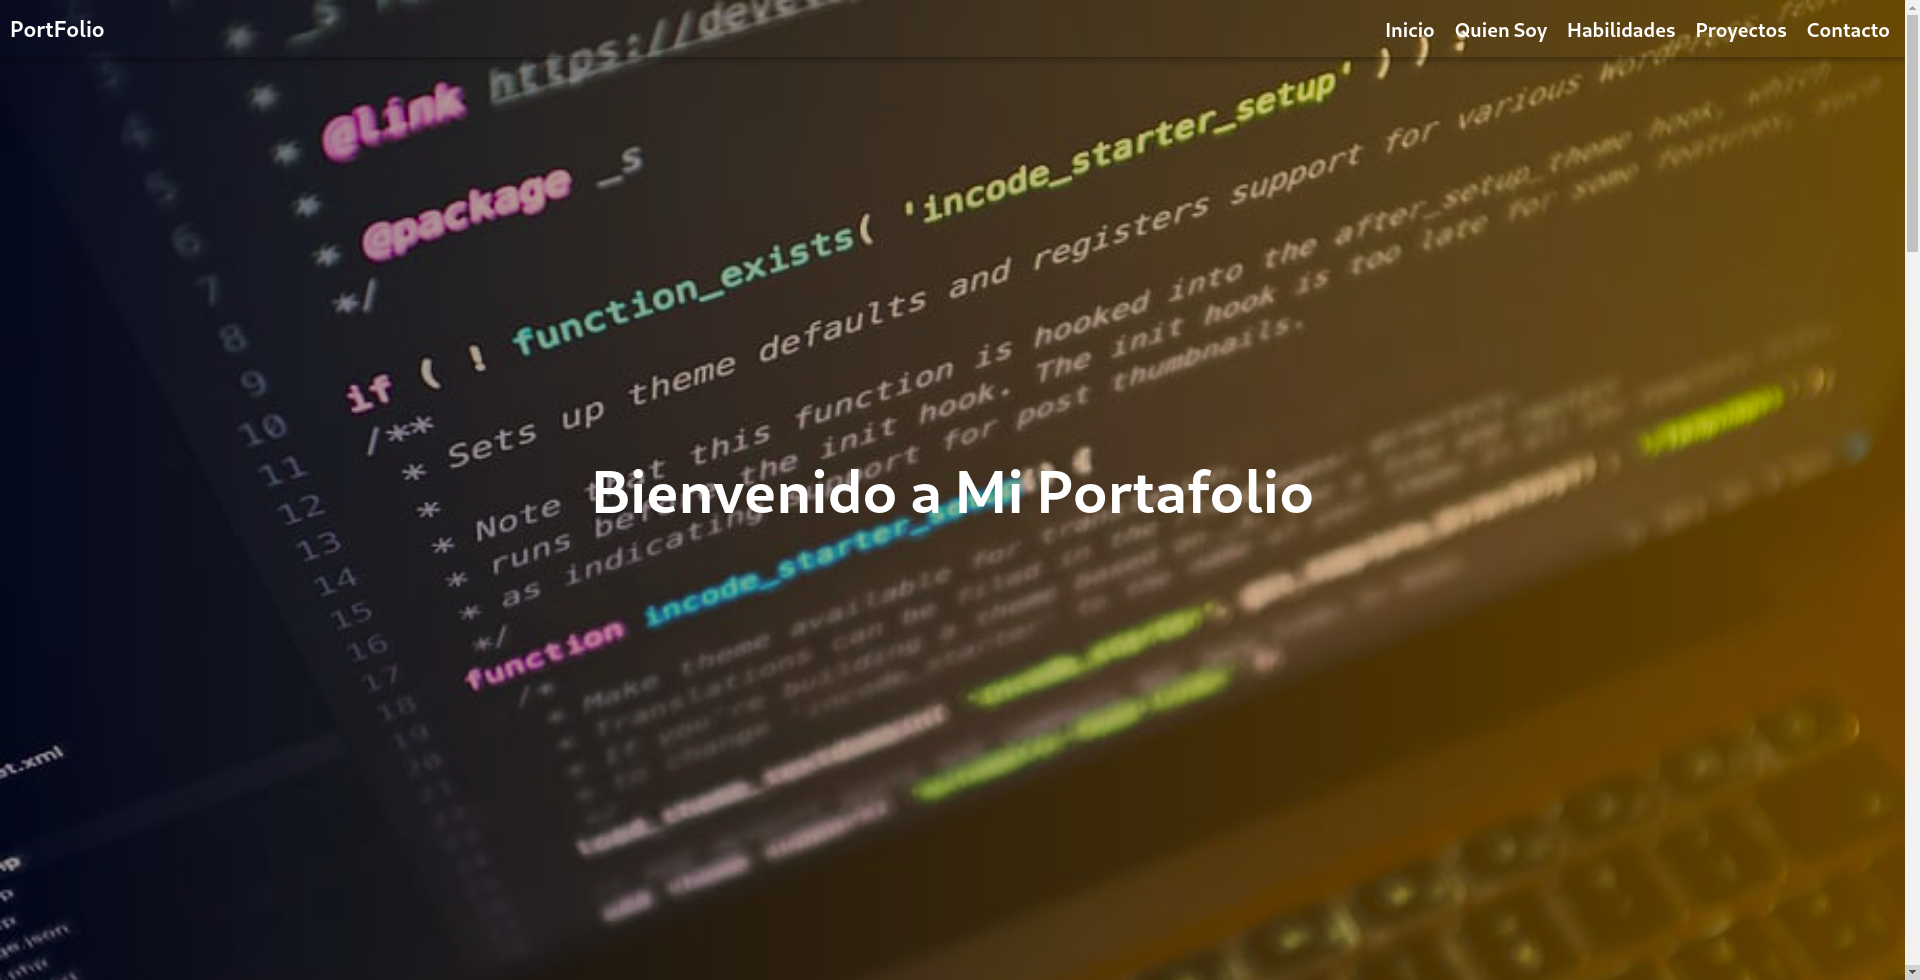
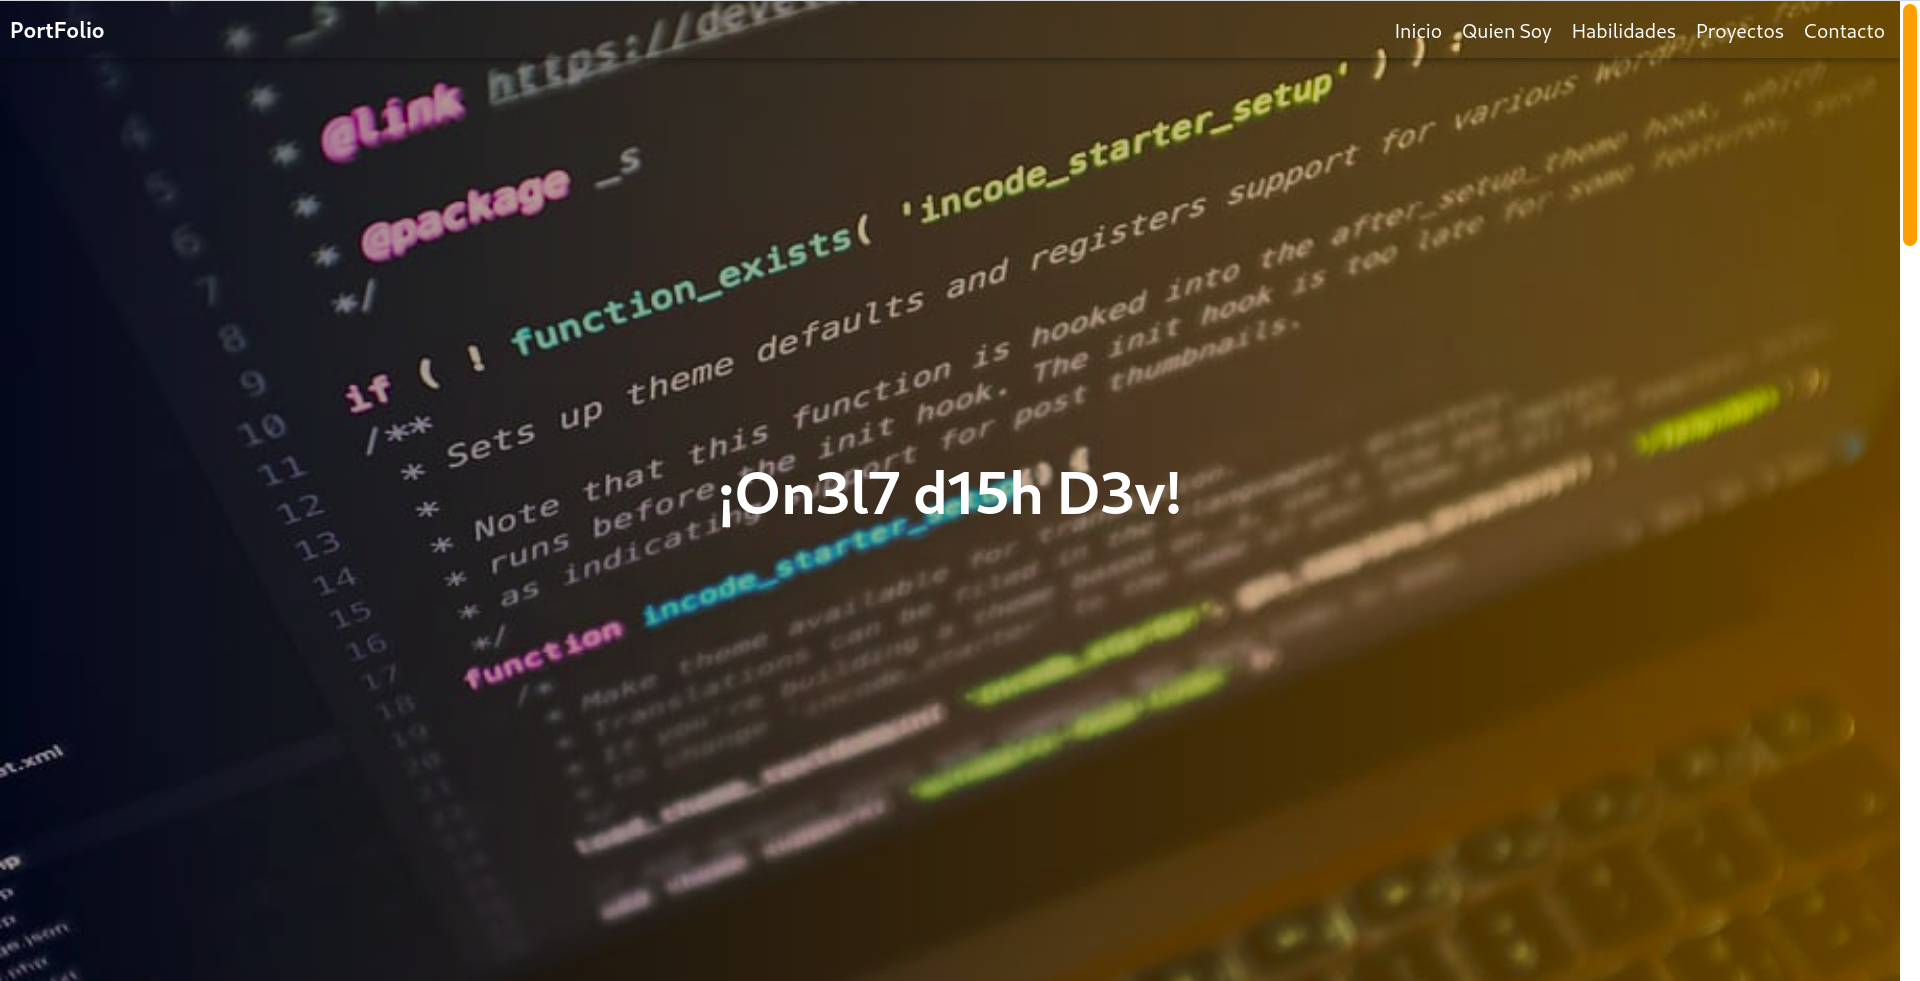
Second Commit Fix

diff --git a/src/components/styles/projects.css b/src/components/styles/projects.css
@@ -23,7 +23,7 @@
         width: 100%;
         display: flex;
         flex-direction: row-reverse;
-        flex-wrap: nowrap;
+        flex-wrap: wrap;
         justify-content: space-evenly;
         align-items: center;
     }
@@ -32,7 +32,7 @@
         {
             opacity: 0;
             transform: translateX(50px);
-            width: 40%;
+            width: 600px;
             font-size: 20px;
             margin: 0 0 0 20px;
             transition: all .5s ease;
@@ -56,11 +56,6 @@
                 width: 600px;
                 font-size: 20px;
             }
-
-                .projects section p a:hover
-                {
-                    background: var(--c-white-orange);
-                }
 
         .projects section .carousel-disappears
         {
@@ -89,6 +84,7 @@
             transform: translateX(0px);
             border-radius: 5px;
             transition: all .9s ease;
+            margin: 24px 0 0 0;
         }
 
             .projects section .carousel-appears:hover
@@ -167,7 +163,7 @@
 
 /* media queries */
 
-@media(max-width: 1600px)
+@media(max-width: 414px)
 {
     .projects section
     {
@@ -175,8 +171,60 @@
         flex-wrap: wrap;
     }
 
-    .projects section p
+        .projects section p
+        {
+            width: 30%;
+        }
+
+        .projects section .carousel-appears
+        {
+            width: 100%;
+            height: 175px;
+        }
+    
+                .projects section .carousel-appears .projectCard section
+                {
+                    width: 100%;
+                    height: 100%;
+                }
+    
+    /* animación del carusel en celulares */
+    @keyframes carousel
     {
-        width: 30%;
+        0%
+        {
+            transform: translateY(0px);
+        }
+
+        15%
+        {
+            transform: translateY(-175px);
+        }
+
+        30%
+        {
+            transform: translateY(-350px);
+        }
+
+        45%
+        {
+            transform: translateY(-525px);
+        }
+
+        60%
+        {
+            transform: translateY(-350px);
+        }
+
+        75%
+        {
+            transform: translateY(-175px);
+        }
+
+        100%
+        {
+            transform: translateY(0px);
+        }
     }
+
 }

diff --git a/src/components/WhoIAm.jsx b/src/components/WhoIAm.jsx
@@ -10,7 +10,7 @@ const WhoIAm = () => {
         window.addEventListener("scroll", () => {
             setobjectTop(document.documentElement.scrollTop);
 
-            if(objectTop >= 930){
+            if(objectTop >= 830){
                 setAnimation((t) => true);
             }
 
@@ -29,11 +29,7 @@ const WhoIAm = () => {
                         <h2>¡Hola!</h2>
                         <p>
                             Mi nombre es Onell Dishmey,
-                            programador web, que trabaja del lado
-                            del cliente, ¡Gusto en Conocerte!
-                        </p>
-                        <p>
-                            Nueva vez, te invito a mi sitio web, por aquí, encontraras, mis habilidades, algunos de mis projectos, y me podras contactar para hacer tu proyecto
+                            un programador web que le gusta desarrollar páginas webs dinámicas, Actualmente estoy estudiando en el ITLA, cursando el tecnólogo en Desarrollo de Software y mi hobbie es... ¡aprender cosas nuevas! 
                         </p>
                     </section>
             </div>

diff --git a/src/components/styles/contact.css b/src/components/styles/contact.css
@@ -31,12 +31,13 @@
             align-items: center;
             width: 70%;
             height: 550px;
+            margin: 0 0 30px;
         }
 
             .contact section .text-img
             {
                 background: url("/public/images/contact.jpg");
-                width: 35%;
+                width: 40%;
                 height: 100%;
                 position: relative;
                 display: flex;
@@ -69,6 +70,7 @@
                 padding: 10px;
                 border-radius: 5px;
                 position: relative;
+                width: 90%;
                 top: 40px;
                 opacity: 0;
                 z-index: 2;
@@ -89,7 +91,7 @@
 
             .contact section .form
             {
-                width: 35%;
+                width: 40%;
                 background: var(--c-white);
                 height: 100%;
                 display: flex;
@@ -190,7 +192,8 @@
     
     .contact
     {
-        height: 130vh;
+        width: 100%;
+        height: 100%;
         display: flex;
         flex-direction: column;
         flex-wrap: wrap;

diff --git a/src/components/styles/navbar.css b/src/components/styles/navbar.css
@@ -68,7 +68,7 @@
         {
             text-decoration: none;
             margin: 0 5px;
-            font-weight: bold;
+            font-weight: 500;
             font-size: 20px;
             border-radius: 5px;
             padding: 5px;
@@ -115,13 +115,13 @@
 
         .navbar .hamburger .inactive
         {
-            width: 100%;
+            width: 101%;
             height: 100vh;
             background: var(--c-orange);
             position: fixed;
             display: flex;
             top: 0;
-            left: -101%;
+            left: -103%;
             flex-direction: column;
             flex-wrap: wrap;
             align-items: center;
@@ -137,7 +137,7 @@
             position: fixed;
             display: flex;
             top: 0;
-            left: -1%;
+            left: -1.2%;
             flex-direction: column;
             flex-wrap: wrap;
             align-items: center;
@@ -148,6 +148,7 @@
             .navbar section a
             {
                 font-size: 30px;
+                margin: 20px 0;
             }
 
 }

diff --git a/src/components/Skills.jsx b/src/components/Skills.jsx
@@ -12,16 +12,13 @@ const Skill = () => {
         {name: "SvelteJS", image: "./images/skills/sveltejs.png"},
         {name: "NodeJS", image: "./images/skills/nodejs.png"},
         {name: "Bootstrap", image: "./images/skills/bootstrap.png"},
-        {name: "MongoDB", image: "./images/skills/mongodb.jpg"},
+        {name: "MongoDB", image: "./images/skills/mongodb.png"},
     ];
 
     return(
         <div className="skill" id="idSkill">
             <h1>Habilidades</h1>
             <section>
-                <p>
-                    Aquí les muestro las habilidades que he desarrollado, y muy pronto, verán las que vaya aprendiendo
-                </p>
                 <div className="container">
                     {
                         skill.map((skill, index) => {

diff --git a/src/components/Projects.jsx b/src/components/Projects.jsx
@@ -12,7 +12,7 @@ const Projects = () => {
         window.addEventListener("scroll", () => {
             setobjectTop(document.documentElement.scrollTop);
 
-            if(objectTop >= 1930){
+            if(objectTop >= 1830){
                 setAnimation((t) => true);
             }
 
@@ -30,7 +30,7 @@ const Projects = () => {
     return(
         <div className="projects" id="idProjects">
             <h1> Projectos! </h1>
-            <section >
+            <section>
                 <p className={(animation) ? "appears" : ""}> 
                     Por aquí te dejo algunos Projectos ya hechos que podrían gustarte! Si deseas saber y ver estos projectos, para verlos, solo debes darle click a la imágen, e irás al respectivo proyecto.
                 </p>

diff --git a/src/components/styles/whoiam.css b/src/components/styles/whoiam.css
@@ -8,7 +8,7 @@
     flex-basis: 33%;
     justify-content: center;
     align-items: center;
-    padding: 40px 0 50px;
+    padding: 40px 0 10px;
     scroll-snap-align: start;
 }
 
@@ -74,6 +74,7 @@
                     .who .whoiam .disappears:nth-child(2) p, .appears:nth-child(2) p
                     {
                         font-size: 20px;
+                        line-height: 1.5;
                     }
 
 /* Clase especial */
@@ -85,6 +86,7 @@
     height: 500px;
     margin: 0 20px;
     opacity: 1;
+    text-align: center;
     transition: all .5s ease;
 }
 
@@ -120,4 +122,9 @@
         width: 100%;
         flex-wrap: wrap;
     }
+    
+        .who .whoiam .appears
+        {
+           width: 100%;
+        }
 }

diff --git a/src/components/styles/footer.css b/src/components/styles/footer.css
@@ -4,12 +4,11 @@
 {
     display: flex;
     flex-direction: row;
-    flex-wrap: nowrap;
+    flex-wrap: wrap;
     justify-content: space-evenly;
     align-items: center;
     background: var(--c-black-gray);
     padding: 10px;
-    max-width: 100%;
     width: 100%;
 }
 
@@ -29,7 +28,7 @@
         .footer section a, a i
         {
             color: var(--c-white);
-            margin: auto 10px;
+            margin: auto 5px;
             text-decoration: none;
             transition: all .5s ease;
         }

diff --git a/src/App.css b/src/App.css
@@ -37,3 +37,27 @@
   margin: 0;
   overflow: hidden;
 }
+
+.App p
+{
+    line-height: 1.5;
+}
+
+/* Para el scrollbar del portfolio*/
+
+html::-webkit-scrollbar
+{
+    width: 20px;
+}
+
+    html::-webkit-scrollbar-thumb
+    {
+        border: 3px solid var(--c-white);
+        border-radius: 20px;
+        background: var(--c-white-orange);
+    }
+
+    html::-webkit-scrollbar-thumb:hover
+    {
+        background: var(--c-orange);
+    }

diff --git a/src/components/Navbar.jsx b/src/components/Navbar.jsx
@@ -11,7 +11,7 @@ const Navbar = ({ data }) => {
         window.addEventListener("scroll", () => {
             setscrollTop(document.documentElement.scrollTop)
 
-            if(scrollTop >= 950){
+            if(scrollTop >= 850){
                 setChange((t) => true);
             } else {
                 setChange((t) => false);

diff --git a/src/components/Start.jsx b/src/components/Start.jsx
@@ -6,7 +6,7 @@ const Start = () => {
         <div className="start" id="idStart">
             <section>
                 <h1> 
-                    Bienvenido a Mi Portafolio 
+                    ¡On3l7 d15h D3v!
                 </h1>
             </section>
         </div>

diff --git a/README.md b/README.md
@@ -4,7 +4,7 @@ Dios bendiga, en este momento les dejo aquí, mi portafolio hecho con React, res
 
 
 
-![](/home/on3l7/Imágenes/preview.png)
+![](./public/images/preview.png)
 
 
 
